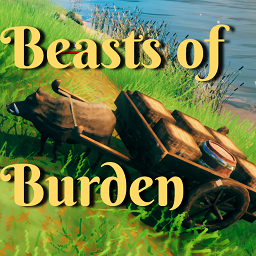
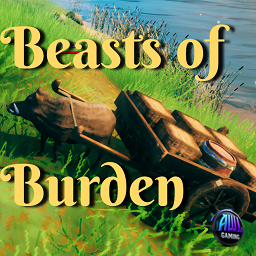
Publish 1.0.6 storefront badge

Changed region(s): [[0.8125, 0.8125, 0.9688, 0.9688]]

diff --git a/BeastsOfBurden/BeastsOfBurden.cs b/BeastsOfBurden/BeastsOfBurden.cs
@@ -14,7 +14,7 @@ namespace BeastsOfBurden
     {
         const string pluginGUID = "org.bepinex.plugins.beasts_of_burden";
         const string pluginName = "BeastsOfBurden";
-        public const string pluginVersion = "1.0.5";
+        public const string pluginVersion = "1.0.6";
         public static ManualLogSource logger;
 
         private readonly Harmony harmony = new Harmony(pluginGUID);

diff --git a/README.md b/README.md
@@ -11,8 +11,9 @@ Beasts of Burden was originally created by **jcleveland**. AWL Gaming maintains 
 - Keeps normal player cart attachment as the fallback.
 - Preserves the original BepInEx plugin GUID and configuration compatibility.
 
-## AWL 1.0.5 compatibility work
+## AWL 1.0.6 maintained release
 
+- 1.0.6 keeps the validated 1.0.5 gameplay implementation and adds the standard AWL Gaming storefront badge; gameplay behavior is unchanged.
 - Updated the original 1.0.4 implementation for current Valheim 1.0 APIs.
 - Updated current `Vagon`, `Character`, and `BaseAI` access paths.
 - Added null-safe handling around stale or missing attachment state.

diff --git a/CHANGELOG.md b/CHANGELOG.md
@@ -1,5 +1,11 @@
 # Changelog
 
+## 1.0.6 - 2026-09-13
+
+### Changed
+- Added the standard AWL Gaming badge to the package icon for consistent storefront presentation.
+- Bumped package and plugin version metadata to 1.0.6; gameplay behavior is unchanged from the validated 1.0.5 build.
+
 ## 1.0.5 - 2026-09-13
 
 ### Fixed

diff --git a/PUBLISHING.md b/PUBLISHING.md
@@ -12,7 +12,7 @@ This is an AWL-maintained compatibility release of the original Beasts of Burden
 
 ## Current version
 
-1.0.5
+1.0.6
 
 ## Package requirements
 
